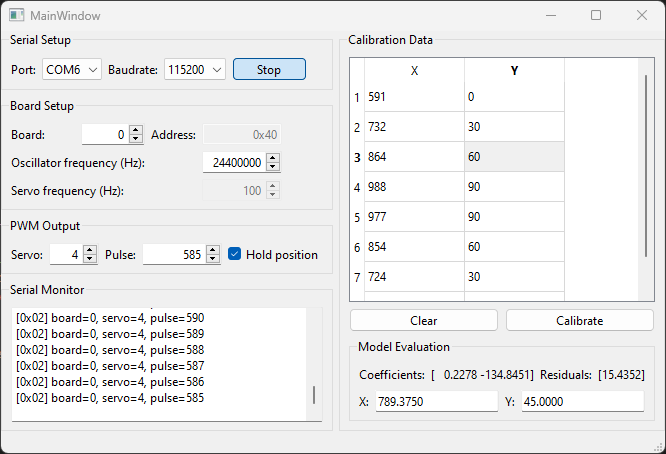
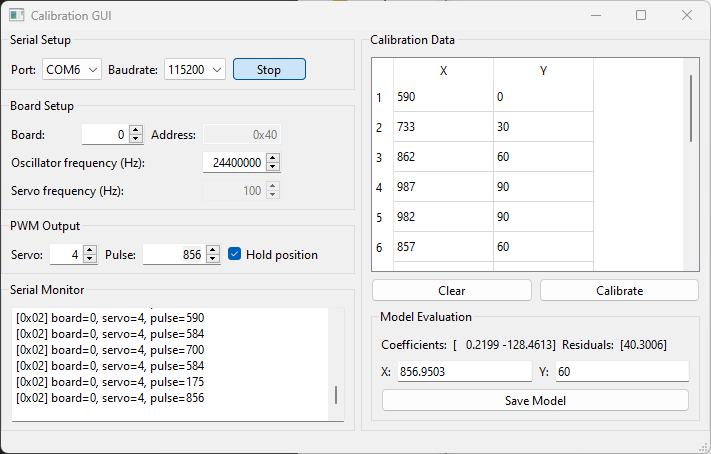
document servo calibration

diff --git a/python/calibration_gui.py b/python/calibration_gui.py
@@ -241,7 +241,9 @@ class MainWindow(QtWidgets.QMainWindow):
                         raise TypeError("Currently only items of type 'servo' are supported!")
             # create the new item
             item_name = item_base_name + "_" + str(int(item_index) + 1)
-            item_dict[item_name] = {"board_id": self.board_value.value(), 
+            item_dict[item_name] = {"board_id": self.board_value.value(),
+                                    "osc_frequency": self.osc_freq_value.value(),
+                                    "servo_frequency": self.servo_freq_value.value(),
                                     "channel": self.servo_value.value(),
                                     "coefficients": self.model.tolist()}
             with open(filepath, 'w') as file:

diff --git a/README.md b/README.md
@@ -19,3 +19,14 @@ The internal oscillator of the PCA9865 chip on the Servo FeatherWing varies from
 
 ![Calibration GUI](/doc/img/osc_calib_gui.png)
 ![Oscillator calibration plot](/doc/img/osc_calib_plot.png)
+
+### Servo
+Servos positions are controlled proportionally to the input pulse width where a duration of ~1.5ms usually depicts the neutral position. However, gain aand offset vary in each servo and therefore need to be calibrated. We use a 3d printed calibration tool with known angular positions and measure the pulse durations that move the servo to the according positions. A linear regression is then applied to the data points which yields the gain and offset. The procedure is similar to the oscillator calibration but we don't need the oscilloscope. Instead we manually change the servo position (by using up and down arrow keys on the pulse edit field) until it matches with one of the known angular positions of the calibration target.
+
+![Servo calibration](/doc/img/servo_calib_img.png)
+Calibration measurements should be taken over the entire range of the servos operaiton. In the image above, the joint collides with the calibration target for positions on the lower circle. In that case, a separate calibration target (mirrored version) can be used to acquire the missing measurements. This may introduce an additional error since there might be a small angular offset between the targets. It is currently assumed that this error is not significant.
+
+![Calibration GUI](/doc/img/osc_calib_gui.png)
+![Servo calibration plot](/doc/img/servo_calib_plot.png)
+
+With an RSE~=1.7° the linear fit suggests that the model is good for the example shown above (RSS=40, n=16, RSE=sqrt(RSS/n-2)~=1.7). There is noticable backlash from the gears which probably is responsible for the largest part of the error. To get the best model, each data point should be measured twice by approaching it from both directions (CW and CCW).
